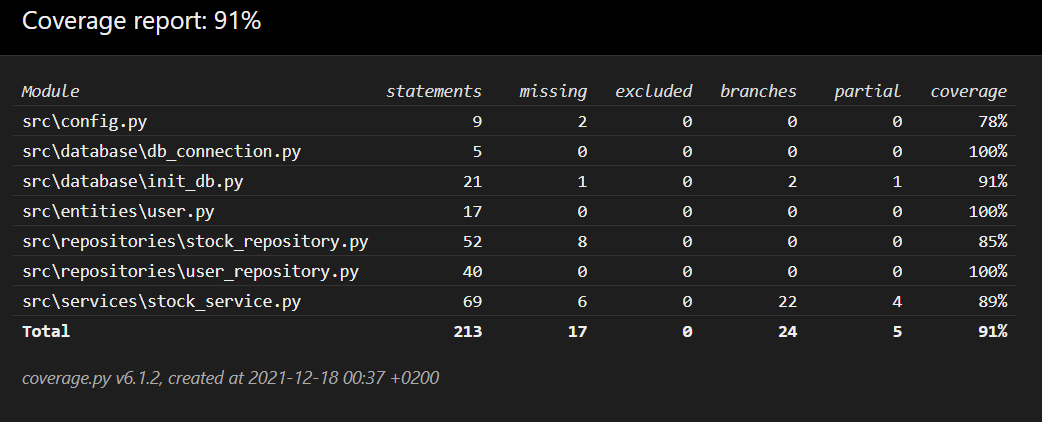
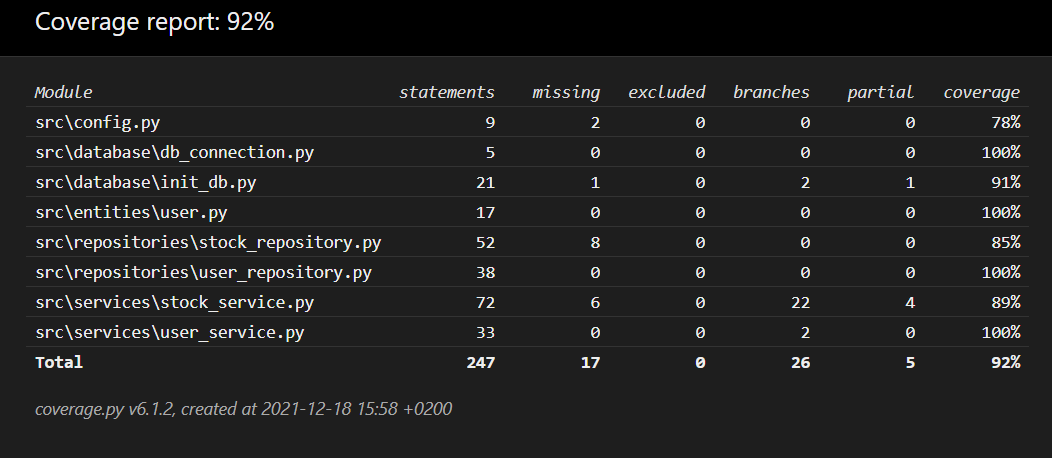
Finished documentation and testing for final return

diff --git a/src/tests/services/user_service_test.py b/src/tests/services/user_service_test.py
@@ -1,0 +1,44 @@
+import unittest
+from services.user_service import UserService
+from database.init_db import initialize_db
+from database.db_connection import get_connection
+
+
+class TestUserService(unittest.TestCase):
+    def setUp(self):
+        self.conn = get_connection()
+        initialize_db()
+        self.service = UserService(self.conn)
+
+    def test_login_user(self):
+        username = "username"
+        password = "1234"
+        password_wrong = "false"
+        result1 = self.service.login(username, password)
+        self.assertEqual(result1, False)
+        self.service.add_user(username, password)
+        result2 = self.service.login(username, password_wrong)
+        self.assertEqual(result2, False)
+        result3 = self.service.login(username, password)
+        self.assertEqual(result3, True)
+
+    def test_get_id(self):
+        username = "username"
+        password = "1234"
+        self.service.add_user(username, password)
+        user_id  = self.service.get_id(username)
+        self.assertEqual(user_id, 1)
+
+    def test_user(self):
+        username = "username"
+        password = "1234"
+        user_id = 1
+        self.service.set_username(username)
+        self.service.set_password(password)
+        self.service.set_id(user_id)
+        result1 = self.service.return_id()
+        result2 = self.service.return_password()
+        result3 = self.service.return_username()
+        self.assertEqual(result1, user_id)
+        self.assertEqual(result2, password)
+        self.assertEqual(result3, username)

diff --git a/src/tests/services/stock_service_test.py b/src/tests/services/stock_service_test.py
@@ -9,7 +9,7 @@ class TestStockService(unittest.TestCase):
         self.conn = get_connection()
         initialize_db()
         self.user_id = 1
-        self.service = StockService(self.user_id, self.conn)
+        self.service = StockService(self.conn, self.user_id)
 
     def test_return_data_empty(self):
         result = self.service.return_user_data()
@@ -22,6 +22,9 @@ class TestStockService(unittest.TestCase):
         data = self.service.return_user_data()
         self.assertEqual(len(data), 2)
         self.assertEqual(data[0][3], "TSLA")
+        self.service.set_user_id(2)
+        data = self.service.return_user_data()
+        self.assertEqual(len(data), 0)
 
     def test_add_wrong_stock(self):
         result1 = self.service.add_stock("NotRealStock", "1234", 30, 300)

diff --git a/src/tests/repositories/user_repo_test.py b/src/tests/repositories/user_repo_test.py
@@ -17,11 +17,6 @@ class TestUserRepository(unittest.TestCase):
         self.assertEqual(second, False)
         self.conn.close()
 
-    def test_return_conn(self):
-        conn = self.repo.return_conn()
-        self.assertEqual(conn, self.conn)
-        self.conn.close()
-
     def test_get_user_id(self):
         self.repo.add_user("username1", "1234")
         id_ = self.repo.get_user_id("username1")

diff --git a/src/repositories/user_repository.py b/src/repositories/user_repository.py
@@ -87,10 +87,3 @@ class UserRepository:
         except sqlite3.Error:
             return False
 
-    def return_conn(self):
-        """Returns the connection for the database.
-
-        Returns:
-            SQLite3 Connection: The connection for the database.
-        """
-        return self.__connection

diff --git a/documentation/arkkitehtuuri.md b/documentation/arkkitehtuuri.md
@@ -15,13 +15,14 @@ Alla oleva kaavio hahmottaa sovelluksen pakkausrakennetta paremmin.
 Sovelluksen graafinen käyttöliittymä voidaan jakaa viiteen eri ikkunaan (aloitus-, kirjautumis-, käyttäjän luonti-, portfolio- ja kuvaajaikkuna), joista jokaisesta vastaa oma QDialogin perivä luokka. Ikkunat on liitetty yhteen QStackedWidget-luokalla, joka luodaan tiedostossa gui.py. Tämän luokan avulla pystytään vaihtamaan sovelluksen näyttämää ikkunaa saumattomasti. 
 
 Alla oleva kaavio hahmottaa käyttöliittymäikkunoiden välistä toimintaa.
+![Käyttöliittymä](../images/kayttoliittyma.png)
 
 ## Sovelluslogiikka
 Alla oleva luokkakaavio havainnollistaa sovelluksen luokkien välisiä suhteita.
 
 ![Class diagram](../images/luokkakaavio.png)
 
-Käytännössä kuitenkin sovelluksen logiikka etenee pitkälti graafisen käyttöliittymän ja siten sovelluksen käyttäjän johdolla eli sovellus toimii pitkälti käyttäjän työkaluna.
+Luokat StockService ja UserService vastaavat sovelluksen logiikasta, ja UserRepository sekä StockRepository taas tiedon tallentamisesta ja tietokannan kanssa kommunikoinnista. Luokka User taas kuvaa tämän hetkistä käyttäjää, joka on kirjautuneena sisään. Käytännössä kuitenkin sovelluksen logiikka etenee pitkälti graafisen käyttöliittymän ja siten sovelluksen käyttäjän johdolla eli sovellus toimii pitkälti käyttäjän työkaluna.
 
 ## Tiedon tallennus
 Sovelluksen tiedon tallennuksesta vastaavat repositories-hakemiston sisältämien tiedostojen luokat UserRepository ja StockRepository. Näistä UserRepository vastaa käyttäjätietojen tallentamisesta SQLite-tietokannan tauluun users ja StockRepository osakkeisiin liittyvien tietojen tallentamisesta saman tietokannan tauluun stocks.
@@ -31,5 +32,4 @@ Alla olevassa sekvenssikaaviossa on esitetty käyttäjän sisäänkirjautumisen 
 
 ![Sequence diagram](../images/sekvenssikaavio_login.png)
 
-## Arkkitehtuurin heikkoudet
-Tulossa pian...
+Sovelluksen muut toiminnallisuudet noudattelevat pitkälti samaa kaavaa (gui -> service -> repository). 

diff --git a/documentation/testausdokumentti.md b/documentation/testausdokumentti.md
@@ -6,7 +6,9 @@ Sovelluksen yksikkö- ja integraatiotestaus on toteutettu automatisoidusti hyöd
 
 Testiluokka TestStockService taas testaa StockService luokan toimintaa, joka vastaa pitkälti sovelluksen logiikasta. TestStockService testaa myös samanaikaisesti StockRepository-luokan toimintaa, sillä monet StockService-luokan metodeista hyödyntävät StockRepository-luokkaa. Tällä tavoin päästään testauksessa myös lähemmäs sovelluksen oikeaa toimintaa. 
 
+Testiluokka TestUserService taas testaa UserService luokan toimintaa, joka vastaa käyttäjään liittyvästä sovelluksen toiminnasta. Testiluokka testaa samanaikaisesti myös luokan User toimintaa, sekä myös luokan UserRepository. 
+
 ## Testikattavuus
-Sovelluksen testauksen haarautumakattavuus (poislukien käyttöliittymästä vastaava koodi) on 91%. Testauksen ulkopuolelle on jäänyt joitain haaraumia StockService ja StockRepository luokissa. Nämä haaraumat ovat pitkälti sqlite3 ja yfinance kirjastojen poikkeustapauksista vastaavia haaraumia, joita on käytännössä mahdotonta testata automatisoiduilla testeillä, sillä niiden tapahtuminen ei esimerkiksi riipu käyttäjän syötteestä. Myös config-tiedostossa ja init_db-tiedostossa on muutama rivi testaamatta, joita ei myöskään ole tarkoituksenmukaista edes testata automatisoiduilla testeillä.
+Sovelluksen testauksen haarautumakattavuus (poislukien käyttöliittymästä vastaava koodi) on 92%. Testauksen ulkopuolelle on jäänyt joitain haaraumia StockService ja StockRepository luokissa. Nämä haaraumat ovat pitkälti sqlite3 ja yfinance kirjastojen poikkeustapauksista vastaavia haaraumia, joita on käytännössä mahdotonta testata automatisoiduilla testeillä, sillä niiden tapahtuminen ei esimerkiksi riipu käyttäjän syötteestä. Myös config-tiedostossa ja init_db-tiedostossa on muutama rivi testaamatta, joita ei myöskään ole tarkoituksenmukaista edes testata automatisoiduilla testeillä.
 
 ![Testikattavuus](../images/testikattavuus.png)

diff --git a/documentation/tuntikirjanpito.md b/documentation/tuntikirjanpito.md
@@ -76,9 +76,14 @@
         <td>8</td>
         <td>Docstringien tekeminen, testauksen laajentaminen ja taulukon sorttaamis -toiminnallisuuden tekeminen.</td>
     </tr>
+     <tr>
+        <td>18.12.</td>
+        <td>6</td>
+        <td>Ohjelman rakenteen muuttaminen, dokumentaation valmistuminen ja testaamisen lisääminen.</td>
+    </tr>
     <tr>
         <td><b>Yhteensä</b></td>
-        <td><b>64</b></td>
+        <td><b>70</b></td>
         <td></td>
     </tr>
 </table>
